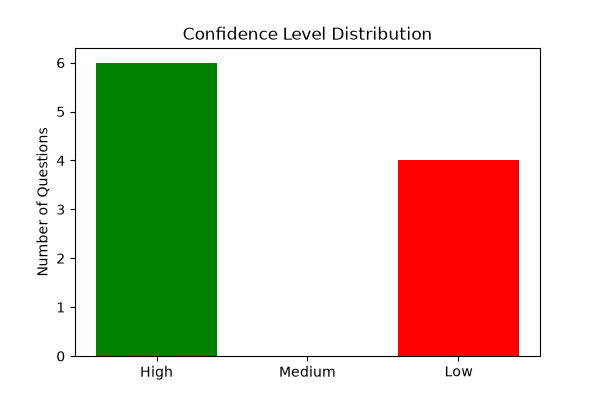
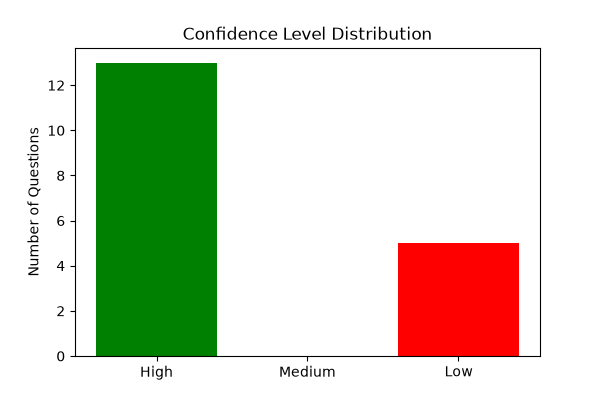
test: expand test questions to cover all uploaded PDFs

diff --git a/test_questions.py b/test_questions.py
@@ -3,23 +3,27 @@ test_questions = [
     "What are the symptoms of diabetes?",
     "What is the difference between Type 1 and Type 2 diabetes?",
     "What are the risk factors for Type 2 diabetes?",
+    "What role does foot care play in diabetes management?",
+    "What are the major goals of diabetes management?",
 
     # Hypertension questions
     "What happens to blood vessels in hypertension?",
     "How is hypertension treated?",
     "What is considered a high blood pressure reading?",
-    
+    "Who is most affected by hypertension?",
+    "What lifestyle changes help manage hypertension?",
 
     # PHC questions
     "What is Primary Health Care?",
     "What are the key principles of PHC?",
     "How does PHC improve health system performance?",
+    "What are the operational levers of PHC?",
 
-    # Cross-document / edge case (optional, tests honesty)
-    "What is the capital of France?",  # Should ideally say "not in context" or low confidence
+    # Asthma questions
+    "What are the symptoms of asthma?",
+    "What triggers asthma attacks?",
+    "How is asthma managed or treated?",
 
-
-    #Ashtma file
-    "What are the common triggers for asthma attacks?"
-
-]   
+    # Edge case — tests honesty / "I don't know" fallback
+    "What is the capital of France?",
+]
